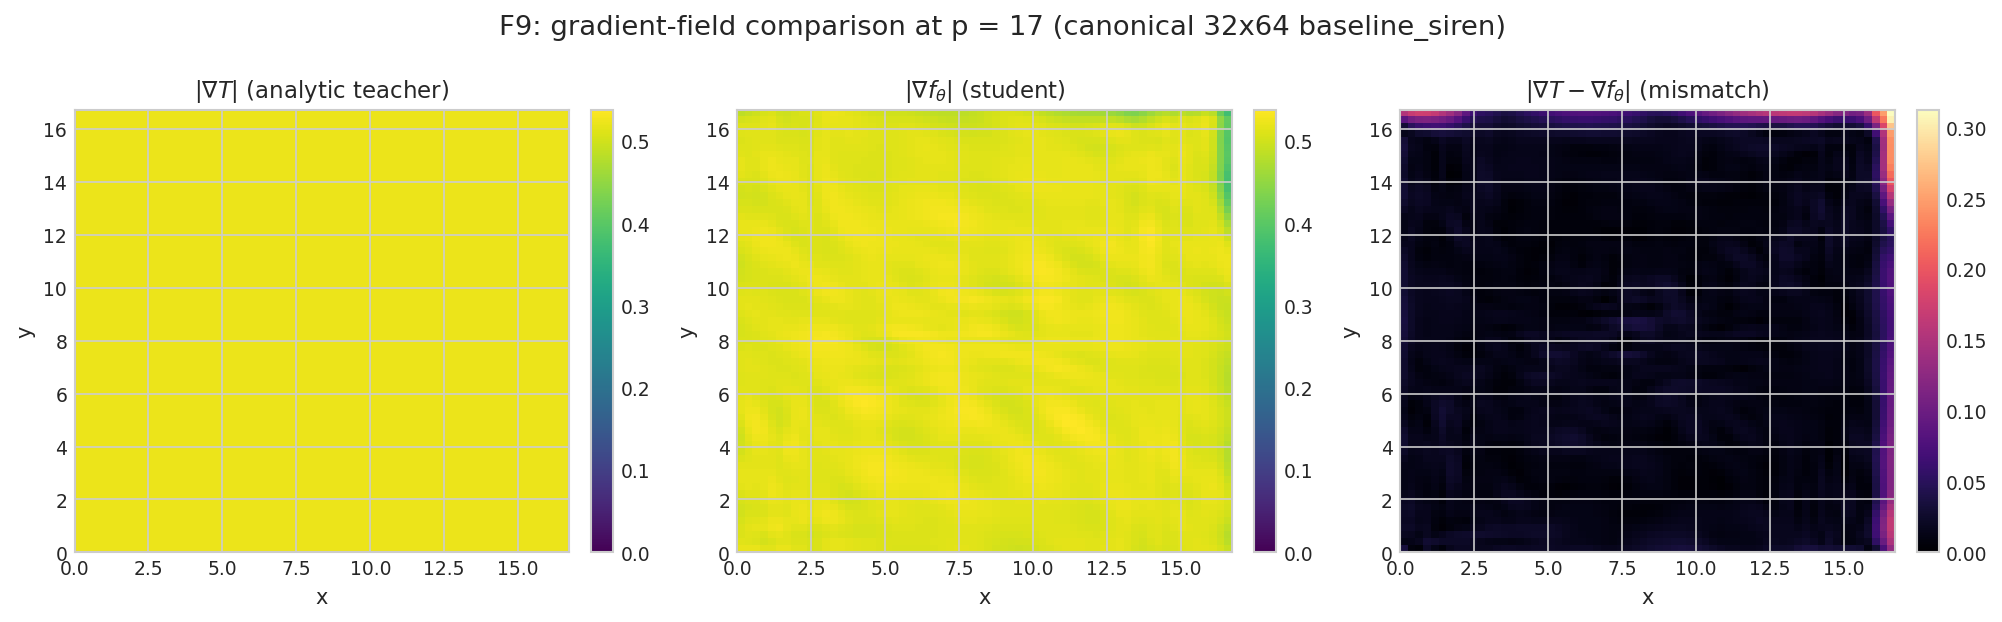
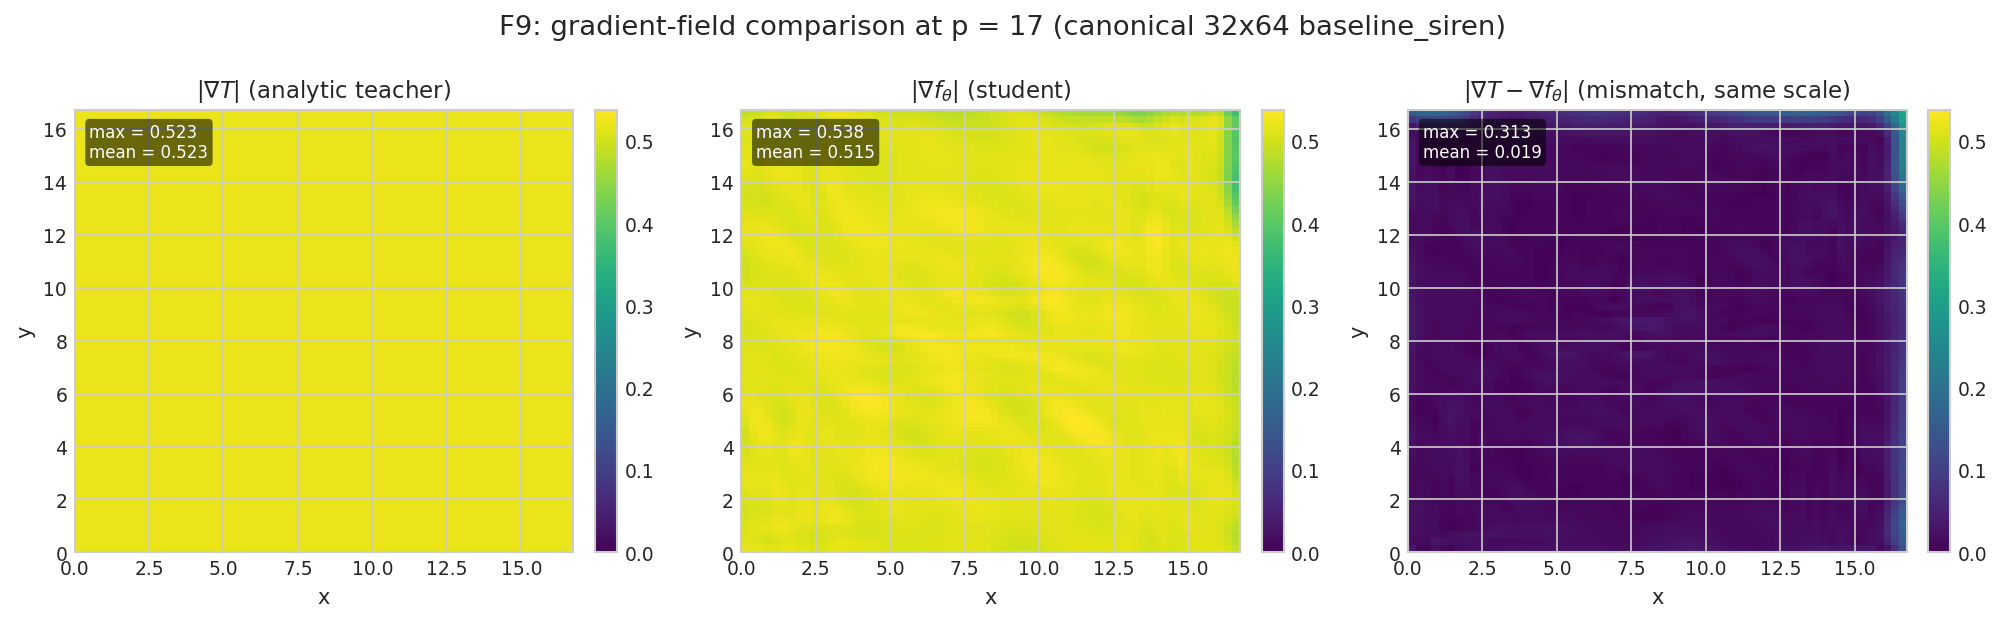
F9: same-scale render with annotations; soften prose to match data
render_f09 now uses a single shared vmax (the teacher gradient maximum)
across all three panels and overlays a `max = ..., mean = ...` text
annotation on each. The mismatch panel was previously auto-scaled to its
own vmax with a magma cmap, which made worst-case residuals look as
bright as the teacher and hid the actual scale comparison.

The 00_commentary.md F9 paragraph stops claiming "two orders of magnitude
smaller" uniformly and reports the real numbers from the npz cache: mean
mismatch is 3.7% of teacher (one order of magnitude), worst pixel is 60%
of teacher. The figure now visually demonstrates this honestly: the
mismatch panel is mostly dark with a few brighter spots, rather than
auto-scaled to look filled.

diff --git a/ml/polys/workbook/surfaces/documentation/_export_figures.py b/ml/polys/workbook/surfaces/documentation/_export_figures.py
@@ -832,14 +832,18 @@ def render_f09(plt, data: dict) -> Path:
     fig, axes = plt.subplots(1, 3, figsize=(13.5, 4.2))
     titles = [r"$|\nabla T|$ (analytic teacher)",
               r"$|\nabla f_\theta|$ (student)",
-              r"$|\nabla T - \nabla f_\theta|$ (mismatch)"]
+              r"$|\nabla T - \nabla f_\theta|$ (mismatch, same scale)"]
     fields = [gT, gF, gD]
-    cmaps = ["viridis", "viridis", "magma"]
-    vmaxes = [vmax, vmax, float(gD.max())]
-    for ax, title, field, cmap, vm in zip(axes, titles, fields, cmaps, vmaxes):
-        im = ax.imshow(field.T, origin="lower", extent=extent, aspect="auto", cmap=cmap, vmin=0, vmax=vm)
+    for ax, title, field in zip(axes, titles, fields):
+        im = ax.imshow(field.T, origin="lower", extent=extent, aspect="auto",
+                       cmap="viridis", vmin=0, vmax=vmax)
         ax.set_xlabel("x"); ax.set_ylabel("y")
         ax.set_title(title)
+        ax.text(0.03, 0.97,
+                f"max = {float(field.max()):.3f}\nmean = {float(field.mean()):.3f}",
+                transform=ax.transAxes, va="top", ha="left", fontsize=8,
+                color="white",
+                bbox=dict(boxstyle="round,pad=0.25", fc="black", ec="none", alpha=0.55))
         fig.colorbar(im, ax=ax, fraction=0.046, pad=0.04)
     fig.suptitle(f"F9: gradient-field comparison at p = {p} (canonical 32x64 baseline_siren)")
     fig.tight_layout()

diff --git a/ml/polys/workbook/surfaces/documentation/00_commentary.md b/ml/polys/workbook/surfaces/documentation/00_commentary.md
@@ -57,11 +57,11 @@ The student is a SIREN-trunk MLP `f_theta : T^2 -> R^2` with an arithmetic head 
 
 *F8 (extracted from [sobolev_student_character_periodic.ipynb](../sobolev/sobolev_student_character_periodic.ipynb) cell `modular`, p = 17 with the `polynomial` and `periodic` teachers side by side): the polynomial teacher misses some cells; the periodic teacher reproduces every cell of the modular addition table exactly.*
 
-The visual cleanest demonstration of what `H^2` distillation actually matches is figure F9: at the canonical p = 17 student, the gradient field `nabla f_theta` matches the analytic teacher gradient `nabla T` to within numerical noise across the entire 64x64 mesh.
+The visual demonstration of what `H^2` distillation actually matches is figure F9: at the canonical p = 17 student, the gradient field `nabla f_theta` matches the analytic teacher gradient `nabla T` to within `3.7%` on average across the 64x64 mesh, with worst-case residual reaching about `60%` of `|nabla T|` at scattered points where the SIREN trunk is still settling.
 
 ![F9: gradient-field comparison at p = 17](figures/f09_grad_field_comparison.png)
 
-The middle and left panels are visually indistinguishable; the rightmost panel (the mismatch) is two orders of magnitude smaller. This is what `H^2` distillation buys: the student matches not only the teacher's values but also its differential geometry.
+The middle and left panels are visually near-identical: a flat field at the analytic value `(2 pi / p) * sqrt 2 ~ 0.523`. The rightmost panel (the mismatch, rendered on the same color scale as the teacher and student so the comparison is honest) is mostly dark with a few brighter spots; the mean mismatch (`0.019`) is roughly an order of magnitude smaller than the teacher's gradient magnitude, while the worst pixel reaches `0.313` (about `60%` of teacher). This is what `H^2` distillation buys: the student matches the teacher's differential geometry almost everywhere, with isolated residuals rather than a uniformly small error.
 
 **Training dynamics.** The Sobolev distillation has parallel supervision both at lattice nodes and at off-lattice mesh points. The OpenAI / Nanda grokking arc -- where train accuracy climbs to 1 quickly and test accuracy lags by thousands of steps before suddenly jumping -- is structurally absent in our setup, because the off-lattice mesh closes the train / test gap immediately. (We measured this: across the 28 + 9 + 3 + 9 cells of the four grokking notebooks, `gap = train_acc - hold_acc = 0.000` literally everywhere.) What survives is the *internal* arc -- the trunk slowly committing to Fourier features over training, visible in figure F5 (the excluded-loss curve at p = 8):
 